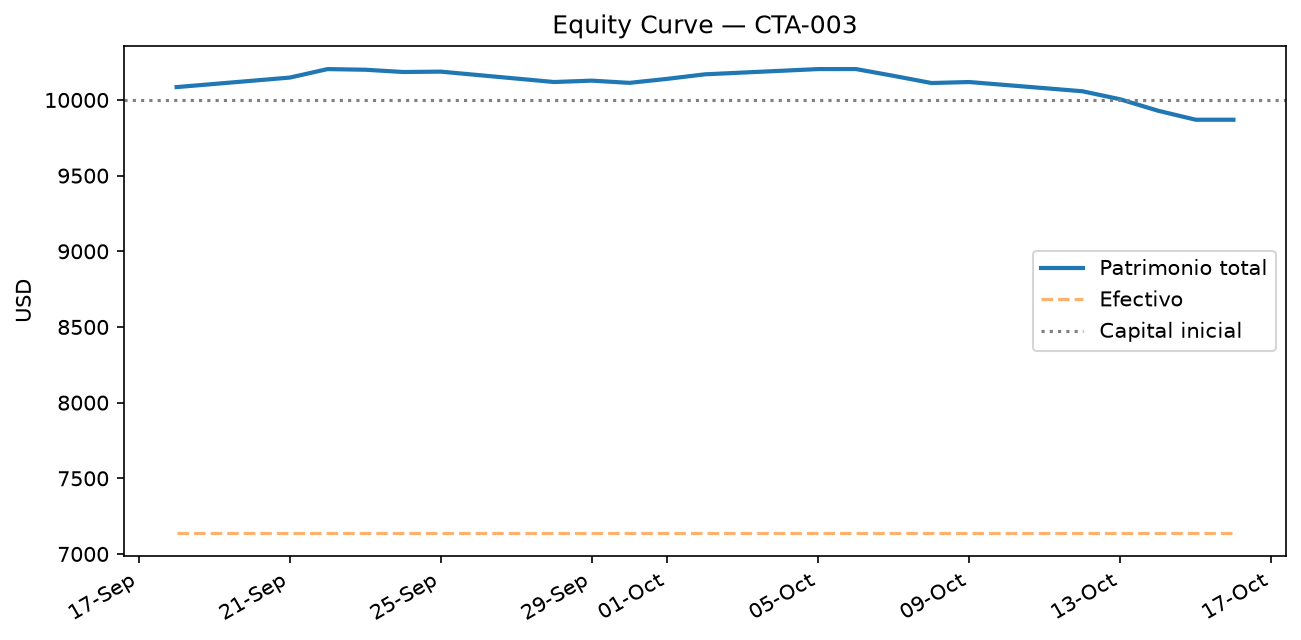
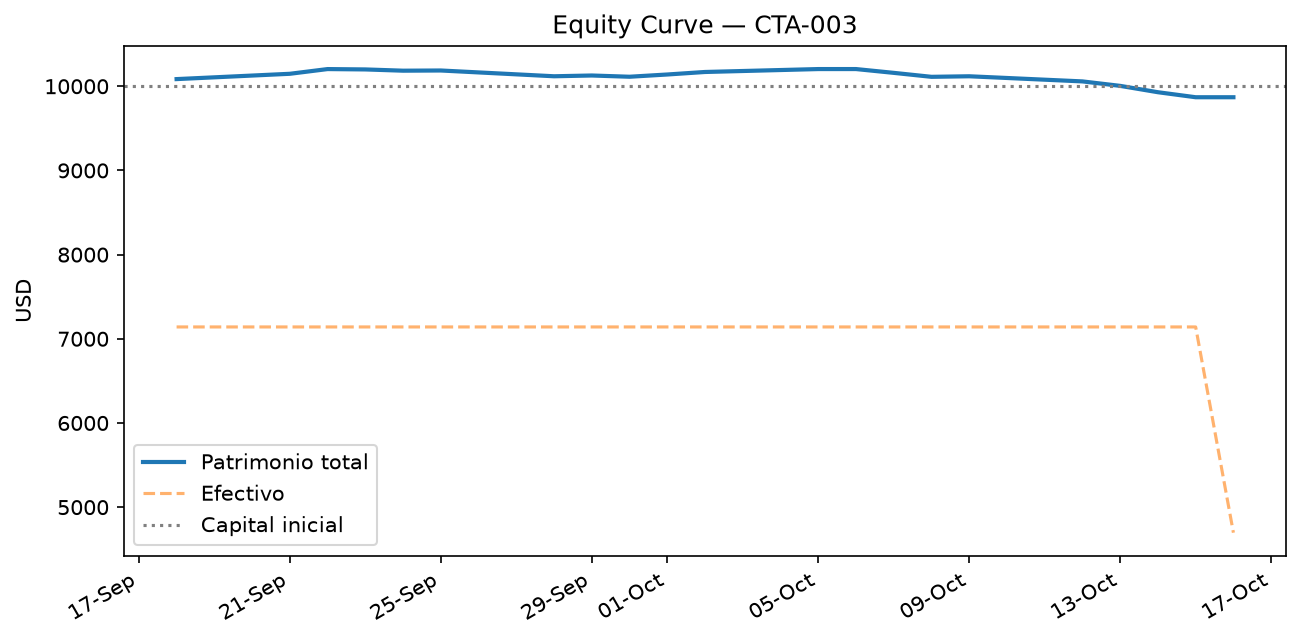
Actualiza reporte visual R3 (2026-10-16)

diff --git a/reportes/reporte_r3_2026-10-16.md b/reportes/reporte_r3_2026-10-16.md
@@ -7,9 +7,9 @@
 - Patrimonio actual: **$9869.55** (capital inicial: $10000.00)
 - Retorno total: **-1.30%**
 - Máximo drawdown: **-3.28%**
-- Semanas operadas: **1**
-- Órdenes ejecutadas en total: **4**
-- Tickers distintos operados: **4**
+- Semanas operadas: **2**
+- Órdenes ejecutadas en total: **9**
+- Tickers distintos operados: **6**
 - Circuit breaker: 🟢 inactivo
 
 ## Equity Curve
@@ -26,10 +26,12 @@
 
 | ticker    |   cantidad |   precio_promedio_compra |   precio_actual |   costo_total |   valor_actual |   pnl_no_realizado |   pnl_pct |
 |:----------|-----------:|-------------------------:|----------------:|--------------:|---------------:|-------------------:|----------:|
-| NVDA      |          4 |                   213.9  |          217.23 |        855.6  |         868.92 |              13.32 |      1.56 |
-| NEM       |          7 |                   121.76 |          115.79 |        852.32 |         810.53 |             -41.79 |     -4.9  |
+| NEM       |         12 |                   119.27 |          115.79 |       1431.27 |        1389.48 |             -41.79 |     -2.92 |
+| NVDA      |          6 |                   215.01 |          217.23 |       1290.06 |        1303.38 |              13.32 |      1.03 |
+| TSM       |          2 |                   419.98 |          422.25 |        839.97 |         844.5  |               4.53 |      0.54 |
 | 005930.KS |          4 |                   183.42 |          156.79 |        733.68 |         627.17 |            -106.51 |    -14.52 |
-| TSM       |          1 |                   417.72 |          422.25 |        417.72 |         422.25 |               4.53 |      1.08 |
+| GDX       |          7 |                    87.02 |           87.02 |        609.14 |         609.14 |              -0    |     -0    |
+| XLE       |          6 |                    66.56 |           66.56 |        399.36 |         399.36 |              -0    |     -0    |
 
 ## Operaciones Realizadas
 
@@ -41,3 +43,8 @@
 |        1 | 2026-09-18 00:00:00 | NEM       |          7 |          121.76 |  852.32 |
 |        1 | 2026-09-18 00:00:00 | NVDA      |          4 |          213.9  |  855.6  |
 |        1 | 2026-09-18 00:00:00 | TSM       |          1 |          417.72 |  417.72 |
+|        8 | 2026-10-16 00:00:00 | GDX       |          7 |           87.02 |  609.14 |
+|        8 | 2026-10-16 00:00:00 | NEM       |          5 |          115.79 |  578.95 |
+|        8 | 2026-10-16 00:00:00 | NVDA      |          2 |          217.23 |  434.46 |
+|        8 | 2026-10-16 00:00:00 | TSM       |          1 |          422.25 |  422.25 |
+|        8 | 2026-10-16 00:00:00 | XLE       |          6 |           66.56 |  399.36 |
